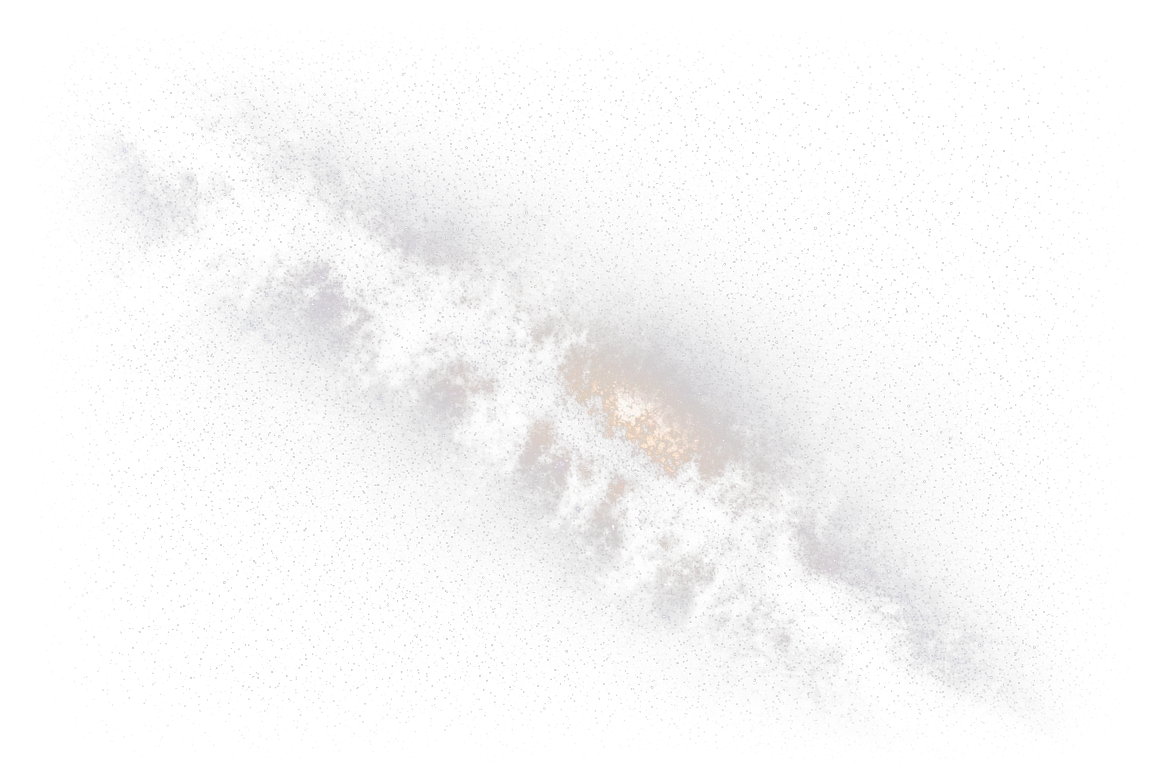
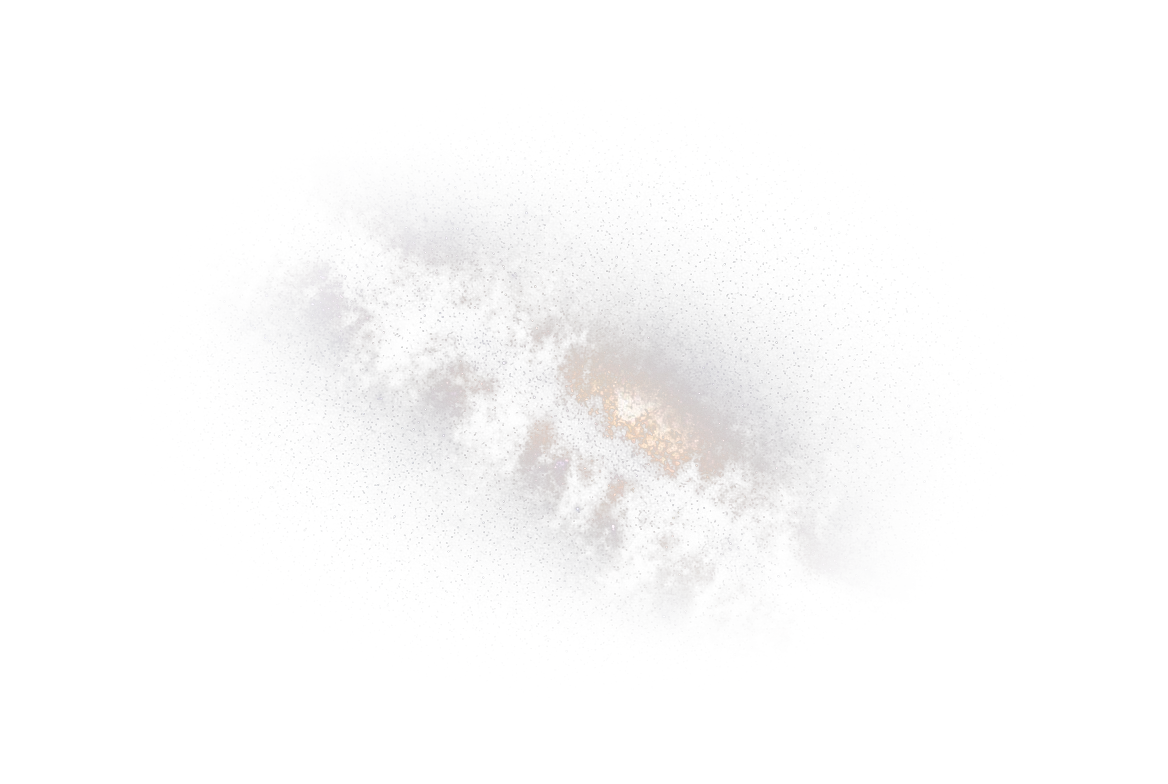
Fade the edges on an ellipse, and end the fade inside the file
The straight edge left after the last fix was the photograph's own border, and
the mesh overlay (?siatka=1 on the page, added here) showed it plainly: the
grid's left and right boundaries run as two vertical lines through the middle
of the frame.

Two reasons it stayed visible after the first attempt at feathering:

- The fade was four independent ramps, one per side, which is a rectangle by
  construction. It is now an ellipse — no border of the file is a straight line
  any more, and the corners go first, which is what the eye expects.
- It reached zero on the border of the file. A star is a point and stays
  visible at five per cent opacity, so the last row of stars drew the edge just
  the same. The fade now ends at 0.88 of the half-width, inside the picture,
  and follows a steeper curve than a plain smoothstep.

Measured on the test instance rather than by eye: along the brightest row the
layer now runs out through 0.12, 0.08, 0.05, 0.04, 0.02, 0.01 with no step
anywhere, against a hard boundary before. Four fifths of the file is fully
transparent, the WebP is down to 269 kB from 506, and a frame costs 8.4 ms.

diff --git a/tools/cutout_milkyway.py b/tools/cutout_milkyway.py
@@ -21,6 +21,13 @@ Two knobs decide how it reads:
   --gamma   how fast alpha rises above that floor. Above 1 the faint dust goes
             quieter and the bright clouds keep their weight, which is what
             keeps the layer from looking like fog.
+  --vignette
+            where the elliptical fade to nothing starts, in half-widths. The
+            sky has no straight edges, so neither can the layer: fading each
+            side separately leaves a visible vertical line where the stars stop.
+            The fade ends at --vignette-end, inside the file rather than on its
+            border, because the last visible star is what draws the edge and a
+            star is still visible at 5 % opacity.
 
 Colour is left alone. The card dims and tints the whole layer anyway, and a
 photograph that has been colour-managed twice looks like a print.
@@ -48,8 +55,10 @@ def main() -> int:
     ap.add_argument("--out", default=str(OUT))
     ap.add_argument("--floor", type=float, default=None, help="0-1; default: measured")
     ap.add_argument("--gamma", type=float, default=1.4)
-    ap.add_argument("--feather", type=float, default=0.15,
-                    help="0-0.5; szerokosc wygaszania brzegow w ulamku boku")
+    ap.add_argument("--vignette", type=float, default=0.30,
+                    help="0-1; promien (w polowach boku), od ktorego zaczyna sie zanik")
+    ap.add_argument("--vignette-end", type=float, default=0.88,
+                    help="0-1.4; promien, przy ktorym krycie jest juz zerem")
     ap.add_argument("--width", type=int, default=0, help="resize, 0 = keep")
     a = ap.parse_args()
 
@@ -62,22 +71,29 @@ def main() -> int:
     floor = a.floor if a.floor is not None else float(np.percentile(lum, 35))
     alpha = np.clip((lum - floor) / max(1e-6, 1.0 - floor), 0.0, 1.0) ** a.gamma
 
-    # Wygaszenie brzegow. Zdjecie jest kadrem, a niebo nie ma kadru: bez tego
-    # na panelu widac prostokat tam, gdzie plik sie konczy — sprawdzone, widac
-    # go wyraznie. Rampa cosinusowa na kazdym boku, mnozona, wiec rogi gasna
-    # dwa razy szybciej niz boki, co jest wlasnie tym, czego oko oczekuje.
-    if a.feather > 0:
+    # Wygaszenie brzegow. Zdjecie jest kadrem, a niebo nie ma kadru — i nie ma
+    # tez prostych krawedzi. Rampy na czterech bokach (pierwsza wersja) daly
+    # dokladnie to, co widac na mapie alfy: pionowa krawedz po lewej i prawej,
+    # pozioma u gory, bo gwiazdy sa punktami i przy dodawaniu swiatla widac je
+    # jeszcze przy kryciu 0,1 — wiec rampa czyta sie jako „gwiazdy sie koncza",
+    # nie jako zanik.
+    #
+    # Wiec winieta eliptyczna: promien liczony wzgledem polowy boku, zanik
+    # smoothstep od `vignette` do krawedzi wpisanej elipsy i dalej. Zaden brzeg
+    # pliku nie jest wtedy linia prosta, a gestosc gwiazd rzednie stopniowo
+    # przez jedna trzecia kadru zamiast urywac sie na ostatnich procentach.
+    if a.vignette < a.vignette_end:
         h, w = alpha.shape
-        def rampa(n, ile):
-            r = np.ones(n, np.float32)
-            k = max(1, int(round(n * ile)))
-            t = np.linspace(0, 1, k, dtype=np.float32)
-            gladko = 0.5 - 0.5 * np.cos(np.pi * t)
-            r[:k] = gladko
-            r[-k:] = gladko[::-1]
-            return r
-        alpha *= rampa(h, a.feather)[:, None] * rampa(w, a.feather)[None, :]
-
+        yy, xx = np.mgrid[0:h, 0:w].astype(np.float32)
+        rx = (xx - (w - 1) / 2) / ((w - 1) / 2)
+        ry = (yy - (h - 1) / 2) / ((h - 1) / 2)
+        r = np.sqrt(rx * rx + ry * ry)
+        t = np.clip((a.vignette_end - r) / max(1e-6, a.vignette_end - a.vignette), 0.0, 1.0)
+        # smoothstep do potegi: gwiazda to punkt i widac ja jeszcze przy 0,05,
+        # wiec zanik musi schodzic do zera szybciej, niz podpowiada oko na
+        # gladkim tle — i konczyc sie WEWNATRZ pliku, nie na jego krawedzi,
+        # inaczej ostatnie gwiazdy ukladaja sie w prosta linie brzegu kadru
+        alpha *= (t * t * (3 - 2 * t)) ** 1.6
     out = np.zeros((*lum.shape, 4), np.uint8)
     out[..., :3] = np.clip(rgb * 255, 0, 255).astype(np.uint8)
     out[..., 3] = np.clip(alpha * 255, 0, 255).astype(np.uint8)
@@ -96,6 +112,9 @@ def main() -> int:
     print(f"{webp} {webp.stat().st_size // 1024} kB")
     print(f"prog tla: {floor:.4f} (35. centyl kadru), gamma {a.gamma}")
     print(f"w pelni kryjace: {kryje:.1f} % powierzchni, w pelni przezroczyste: {puste:.1f} %")
+    kraw = max(float(alpha[0].max()), float(alpha[-1].max()),
+               float(alpha[:, 0].max()), float(alpha[:, -1].max()))
+    print(f"najjasniejszy piksel na krawedzi pliku: {kraw:.4f} (ma byc 0)")
     return 0
 
 

diff --git a/tools/build_milkyway_poc.py b/tools/build_milkyway_poc.py
@@ -358,6 +358,7 @@ __KARTA__
   }
 
   const SIATKA_U = 32, SIATKA_V = 22;
+  const SIATKA_WIDOCZNA = new URLSearchParams(location.search).has('siatka');
   let BUFOR = null;                      // pomocniczy kadr, zeby szwy nie sumowaly sie dwa razy
   function rysujPas(cv, godz, opcje, pr, okno) {
     const r = cv.getBoundingClientRect();
@@ -427,6 +428,14 @@ __KARTA__
         gb.clip();
         gb.drawImage(obraz, 0, 0);
         gb.restore();
+        if (SIATKA_WIDOCZNA) {            // ?siatka=1 — obrys oczek do diagnozy
+          gb.save();
+          gb.strokeStyle = 'rgba(255,80,80,.9)'; gb.lineWidth = 0.6;
+          gb.beginPath();
+          gb.moveTo(wx[a], wy[a]); gb.lineTo(wx[b2], wy[b2]);
+          gb.moveTo(wx[a], wy[a]); gb.lineTo(wx[c2], wy[c2]);
+          gb.stroke(); gb.restore();
+        }
         oczek++;
       }
     }
